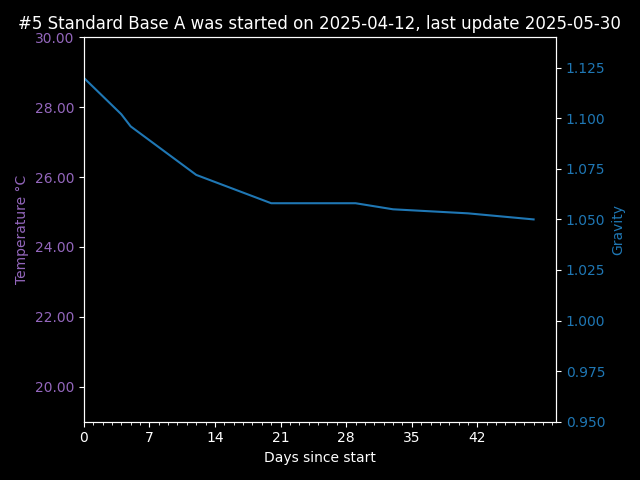
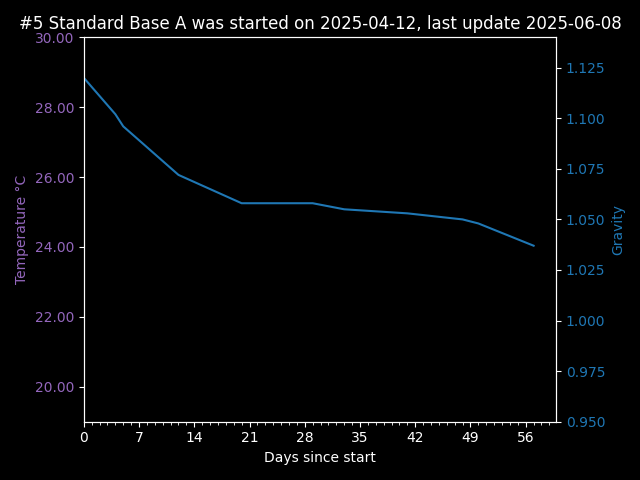
2025-06-08

diff --git a/Recipe List/5_Standard_Base_A.md b/Recipe List/5_Standard_Base_A.md
@@ -68,6 +68,10 @@ Yeast Food
 | 2025-05-23 |                | 1.053   |    |                                                                |
 | 2025-05-24 |                |         |    | Pretty sure it had stopped, added Lalvin QA23                  |
 | 2025-05-30 |                | 1.050   |    |                                                                |
+| 2025-06-01 |                | 1.048   |    |                                                                |
+| 2025-06-08 |                | 1.037   |    |                                                                |
+|            |                |         |    |                                                                |
+|            |                |         |    |                                                                |
 |            |                |         |    |                                                                |
 |            |                |         |    |                                                                |
 

diff --git a/Recipe List/5_Standard_Base_B.md b/Recipe List/5_Standard_Base_B.md
@@ -68,6 +68,10 @@ Yeast Food
 | 2025-05-23 |                | 1.052   |    |                                                                |
 | 2025-05-24 |                |         |    | Pretty sure it had stopped, added Lalvin QA23                  |
 | 2025-05-30 |                | 1.048   |    |                                                                |
+| 2025-06-01 |                | 1.046   |    |                                                                |
+| 2025-06-08 |                | 1.035   |    |                                                                |
+|            |                |         |    |                                                                |
+|            |                |         |    |                                                                |
 |            |                |         |    |                                                                |
 |            |                |         |    |                                                                |
 
